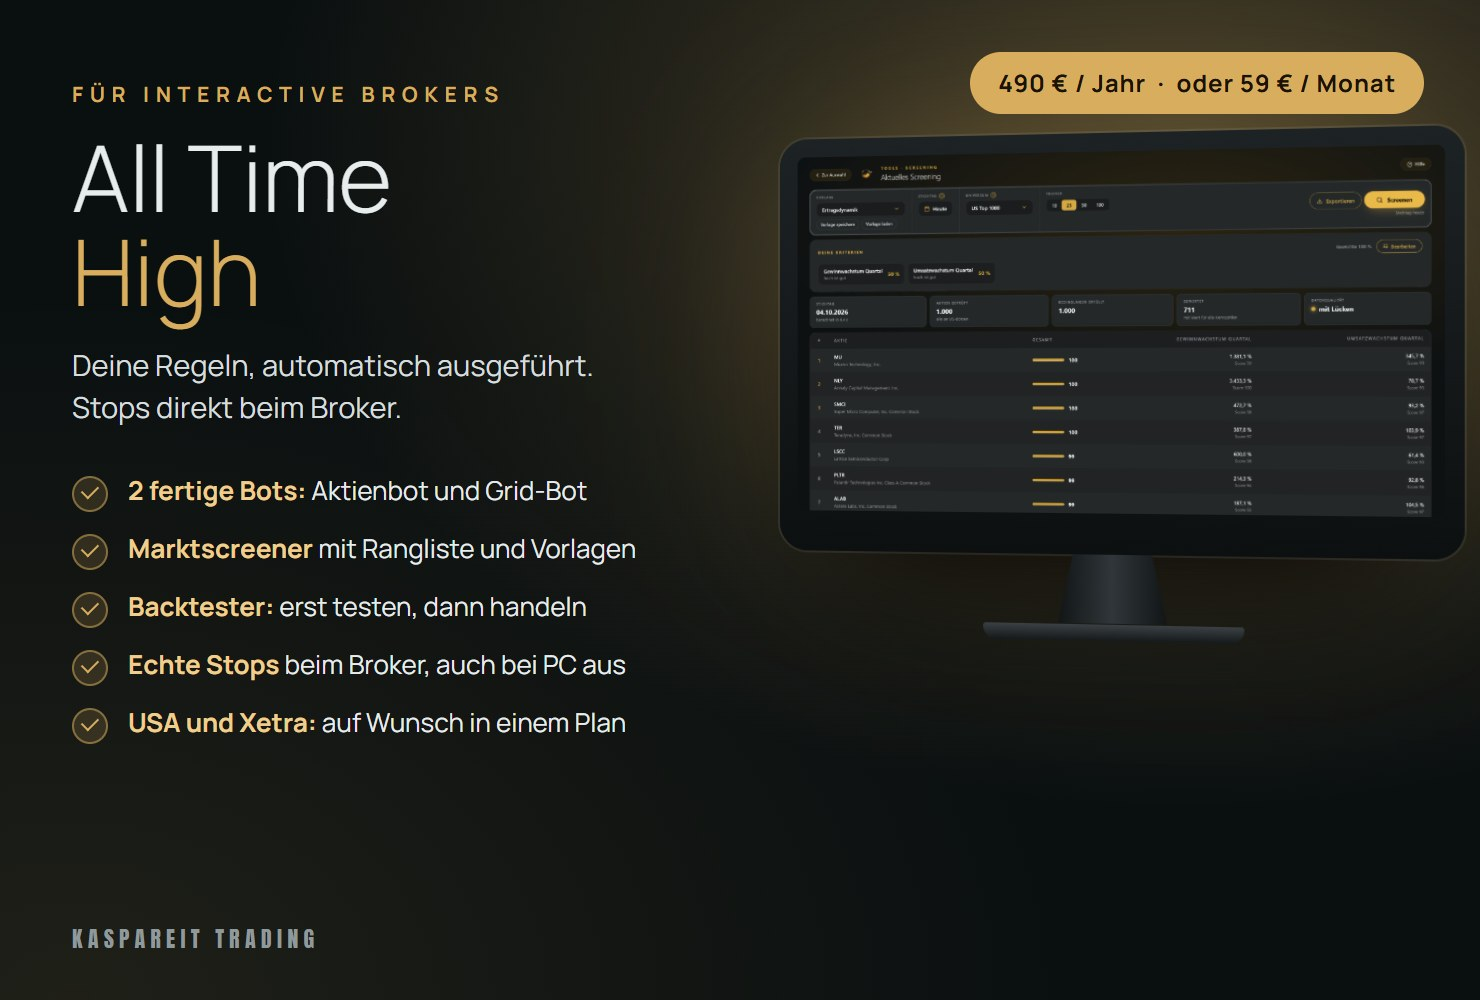
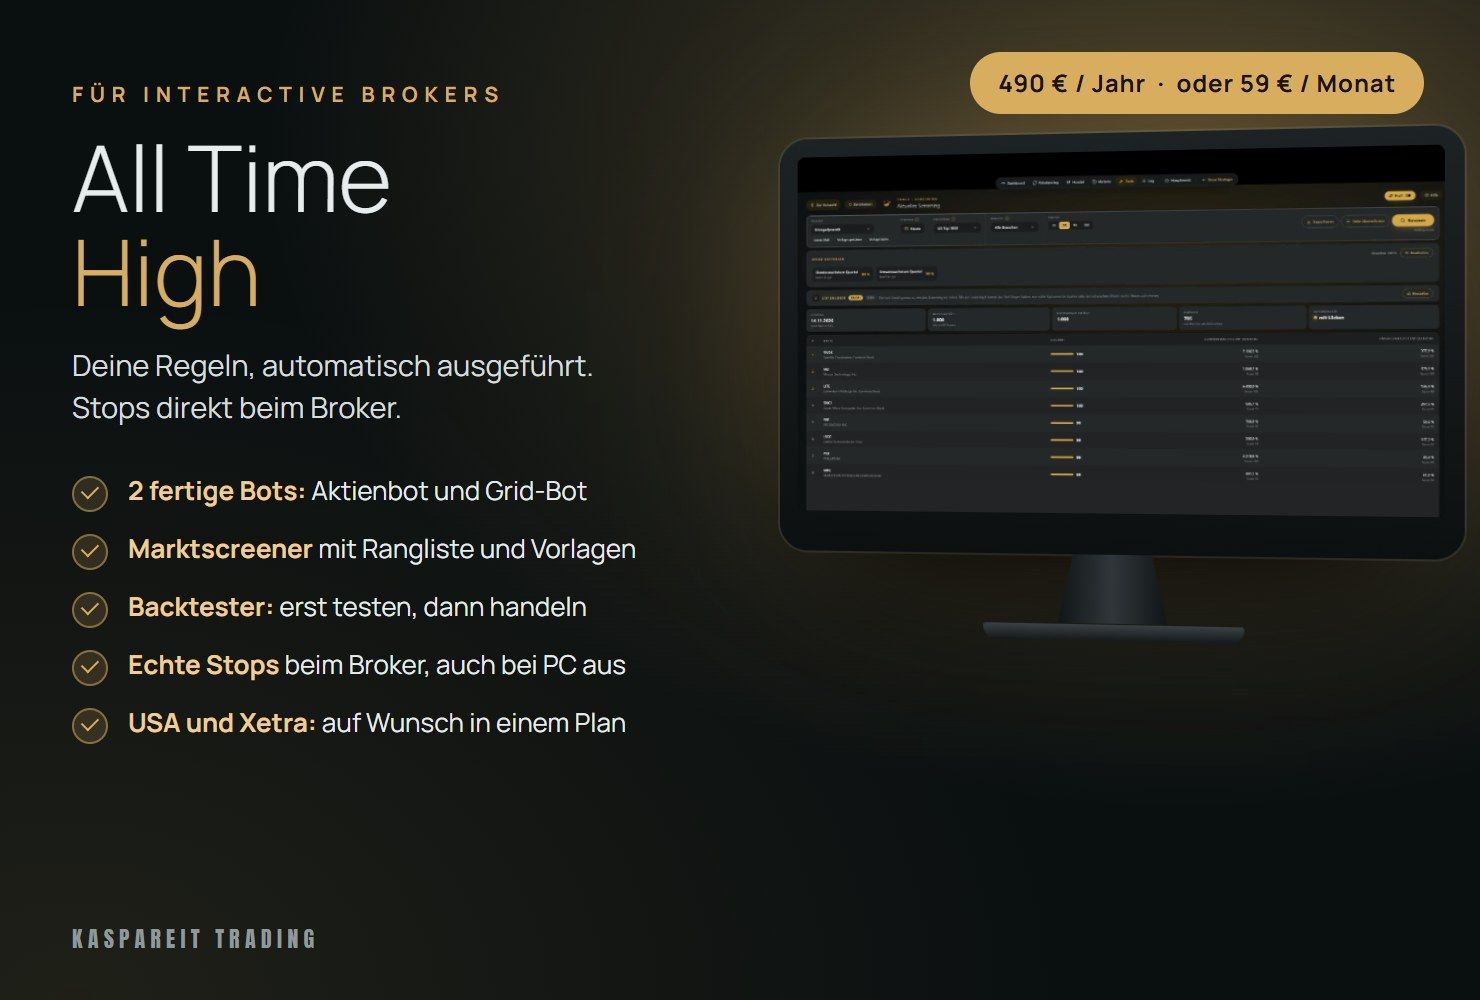
All Time High aktualisiert (2026-11-14 17:55)

diff --git a/index.html b/index.html
@@ -346,9 +346,9 @@ section{padding:76px 0}
     </div>
 
     <div class="buehne">
-      <div class="monitor" id="monitor" data-gross="ath-galerie/gross/ath01_start.jpg">
+      <div class="monitor" id="monitor" data-gross="ath-galerie/gross/ath01_start_0965.jpg">
         <div class="mon-rahmen">
-          <div class="bildschirm"><img src="ath-galerie/gross/ath01_start.jpg" alt="Startbildschirm von All Time High mit Dashboard, Automatik, Tools und Einstellungen"></div>
+          <div class="bildschirm"><img src="ath-galerie/gross/ath01_start_0965.jpg" alt="Hauptmenü von All Time High mit den Kacheln Dashboard, Automatik, Tools und Einstellungen"></div>
           <div class="mon-kinn"><i></i></div>
         </div>
         <div class="mon-hals"></div>
@@ -453,7 +453,7 @@ section{padding:76px 0}
         <div class="laptop" id="laptop">
           <div class="lap-deckel">
             <div class="bildschirm" id="storyBild">
-              <img class="bs an" src="ath-galerie/gross/ath02_screener.jpg" alt="Marktscreener mit Rangliste der Treffer">
+              <img class="bs an" src="ath-galerie/gross/ath02_screener_0965.jpg" alt="Aktuelles Screening mit Vorlage, Kriterien und Rangliste der Treffer">
               <img class="bs" src="ath-galerie/gross/ath04_historisch.jpg" alt="Historisches Screening mit der Auswahl je Stichtag" loading="lazy">
               <img class="bs" src="ath-galerie/gross/ath05_screenerbacktest.jpg" alt="Screener-Backtester mit Ablauf und Korb je Stichtag" loading="lazy">
               <img class="bs ganz" src="ath-galerie/gross/ath06_gridbot.jpg" alt="Chart einer laufenden Position mit Kaufstufen und Stops" loading="lazy">
@@ -482,10 +482,10 @@ section{padding:76px 0}
       </ul>
     </div>
     <div class="fenster-buehne reveal r">
-      <div class="fenster kipp" data-gross="ath-galerie/gross/ath03_firma.jpg">
+      <div class="fenster kipp" data-gross="ath-galerie/gross/ath03_firma_0965.jpg">
         <div class="leiste"><span class="app"></span><span class="tit">All Time High · Firmenfenster</span>
           <span class="ktr"><span><svg viewBox="0 0 10 10"><path d="M0 5h10"/></svg></span><span><svg viewBox="0 0 10 10"><rect x=".5" y=".5" width="9" height="9"/></svg></span><span><svg viewBox="0 0 10 10"><path d="M0 0l10 10M10 0L0 10"/></svg></span></span></div>
-        <img src="ath-galerie/gross/ath03_firma.jpg" alt="Firmenfenster mit Kursverlauf, Umsatz und Gewinn" loading="lazy">
+        <img src="ath-galerie/gross/ath03_firma_0965.jpg" alt="Firmenfenster mit Kursverlauf, Screener-Bewertung, Umsatz und Gewinn" loading="lazy">
       </div>
       <div class="schwebe">
         <div class="fenster" data-gross="ath-galerie/gross/ath07_ampel.jpg">
@@ -596,6 +596,12 @@ section{padding:76px 0}
       <div class="karte reveal" style="--i:1"><div class="nr">SICHERUNG</div><h3>Handelspläne zurückholen</h3><p>All Time High sichert deine Handelspläne jeden Tag. Aus einer Sicherung holst du sie bei Bedarf zurück.</p></div>
       <div class="karte reveal" style="--i:2"><div class="nr">WINDOWS</div><h3>Automatischer Start</h3><p>Auf Wunsch startet All Time High nach einem Windows-Neustart zusammen mit dem IB Gateway von selbst wieder. Die App prüft, ob alles dafür bereit ist.</p></div>
       <div class="karte reveal" style="--i:3"><div class="nr">UPDATES</div><h3>Nur per Klick</h3><p>Updates installierst du selbst. Vorher zeigt dir die App, was sich am Handel deiner laufenden Pläne ändert.</p></div>
+    </div>
+    <div class="fenster-buehne reveal" style="max-width:960px;margin:34px auto 0;padding:0">
+      <div class="fenster" data-gross="ath-galerie/gross/ath08_verbund_0965.jpg">
+        <div class="leiste"><span class="app"></span><span class="tit">All Time High · Backtest Strategie-Verbund</span></div>
+        <img src="ath-galerie/gross/ath08_verbund_0965.jpg" alt="Backtest Strategie-Verbund: Kapital, Strategien wählen, Gewichtung und Rebalancing" loading="lazy" width="1552" height="873">
+      </div>
     </div>
     <p class="reveal" style="margin-top:22px;font-size:13px;color:var(--dim)">Backtests rechnen auf vergangenen Kursdaten, die Ergebnisse sind hypothetisch. Live-Ergebnisse können vom Backtest abweichen, etwa durch Ausführung, Kurslücken, Gebühren und Wechselkurse.</p>
   </div>

diff --git a/free-webinar/index.html b/free-webinar/index.html
@@ -265,9 +265,9 @@ section{padding:76px 0}
         <p>Du siehst, welche Kriterien ich verwendet habe und wie du eine Vorlage selbst nachbaust.</p>
       </div>
       <div class="reveal r">
-        <div class="fenster" data-gross="../ath-galerie/gross/ath02_screener.jpg">
+        <div class="fenster" data-gross="../ath-galerie/gross/ath02_screener_0965.jpg">
           <div class="leiste"><span class="app"></span>All Time High · Marktscreener</div>
-          <img src="../ath-galerie/gross/ath02_screener.jpg" alt="Marktscreener in All Time High mit Kriterien und Rangliste der Treffer" loading="lazy" width="2000" height="1125">
+          <img src="../ath-galerie/gross/ath02_screener_0965.jpg" alt="Marktscreener in All Time High mit Kriterien und Rangliste der Treffer" loading="lazy" width="1552" height="873">
         </div>
       </div>
     </div>
